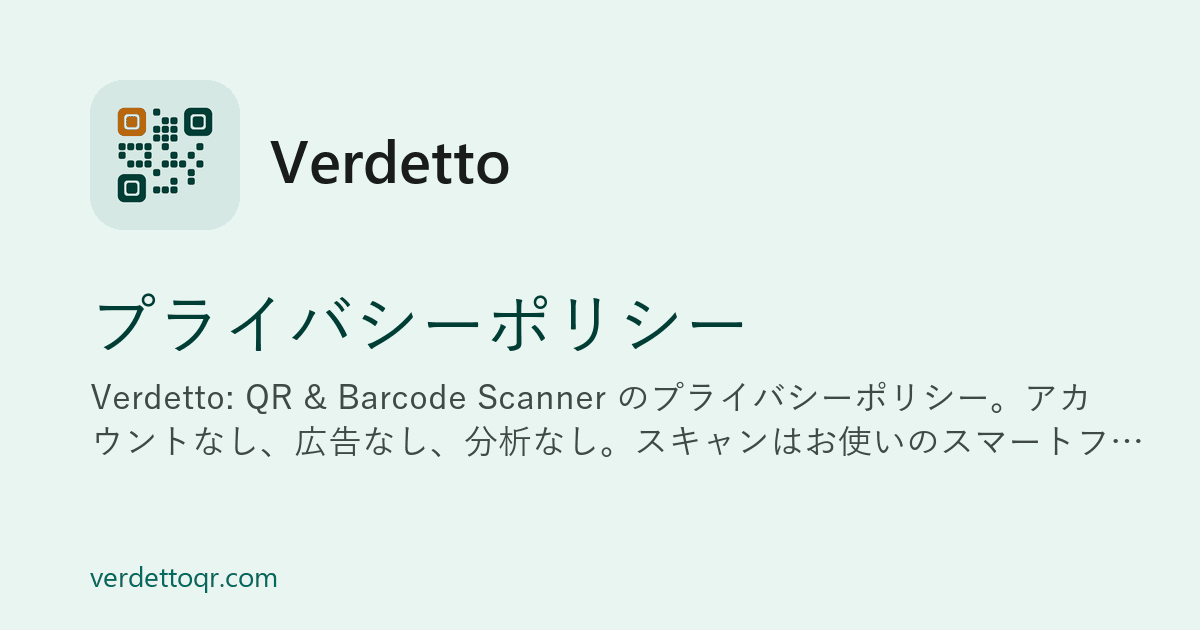
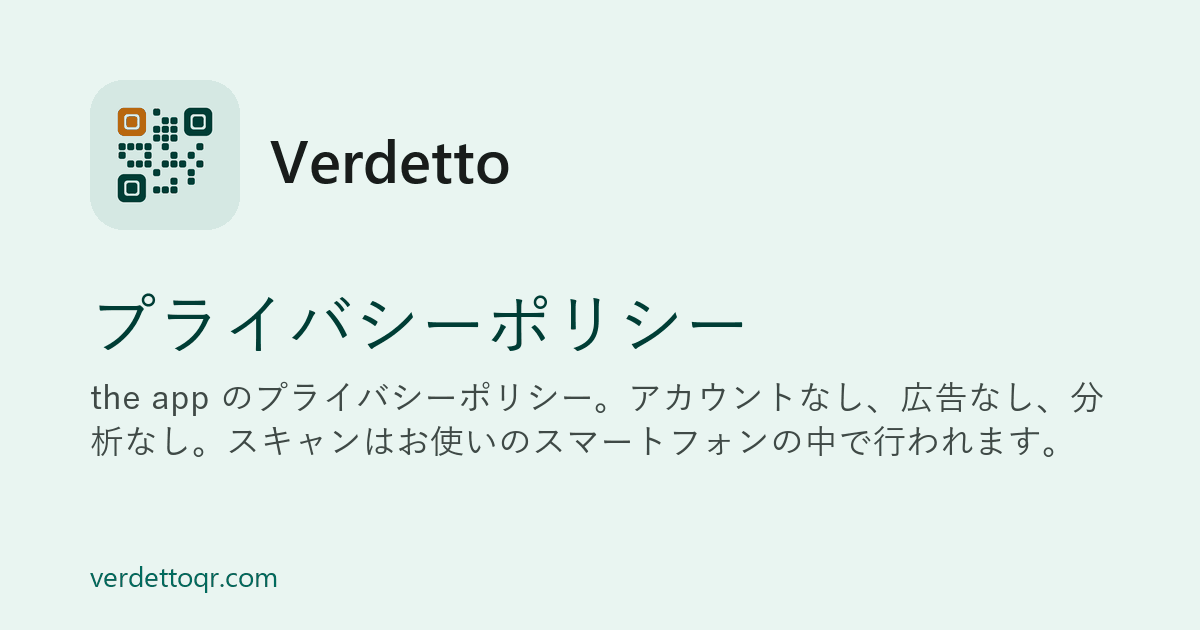
No repetition inside one message: social images carry the name and the domain once, the press kit lists the two policy addresses as two items
The operator's rule of 2026-09-05 (never duplicative or repetitive in the same message): the mark and wordmark are the one mention of the name and the footer the one mention of the domain, so a page's title and line on its social image carry neither (assets.py asserts it); the walkthrough now flags a link or the domain repeated inside one block, which found the press-kit item.

Changed region(s): [[0.0617, 0.6032, 0.925, 0.7238]]

diff --git a/assets.py b/assets.py
@@ -124,6 +124,24 @@ def wrap(draw, text, fnt, width, lang):
     return lines
 
 
+OG_HEAD = {"report.html": "Report a link or a wrong read"}
+FULL_STOPS = ".。।"  # period, ideographic full stop, danda
+
+
+def dename(text):
+    text = re.sub(r"Verdetto: QR & Barcode Scanner( for Android)?", "the app", text)
+    return text.replace("Verdetto's", "the app's").replace("Verdetto", "the app")
+
+
+def og_line(desc):
+    """The image's one line: the first sentence without the name when it says something (30+ characters), else the first
+    sentence with the name replaced. A sentence ends at a full stop of its script followed by white space."""
+    sentences = [x.strip() for x in re.split("(?<=[" + re.escape(FULL_STOPS) + r"])\s+", desc) if x.strip()]
+    pick = next((x for x in sentences if "Verdetto" not in x and len(x) >= 30), None) or dename(sentences[0])
+    stop = pick[-1] if pick[-1] in FULL_STOPS else "."
+    return pick.rstrip(FULL_STOPS) + stop
+
+
 (HERE / "og").mkdir(exist_ok=True)
 small_mark = rounded(master.resize((150, 150), Image.LANCZOS))
 for name, (title, desc, _body, _ld) in build.PAGES.items():
@@ -131,8 +149,13 @@ for name, (title, desc, _body, _ld) in build.PAGES.items():
         continue
     lang, rtl, _alts = build.PAGE_LANG.get(name, ("en", False, None))
     stem = name[:-5]
-    head = title.split(" - ")[0] if " - " in title else title
-    line = desc.split(". ")[0].rstrip(".") + "."
+    # The no-repetition rule (operator, 2026-09-05: "we can't be duplicative or repetitive in the same message"): the mark and
+    # wordmark are the one mention of the name, the footer the one mention of the domain, so the title and the line carry
+    # neither. A name-free sentence of the description is preferred; else the name becomes "the app".
+    head = OG_HEAD.get(name) or re.sub(r"^Verdetto: ", "", title.split(" - ")[0] if " - " in title else title)
+    line = og_line(desc)
+    for shown in (head, line):
+        assert "Verdetto" not in shown and "verdettoqr" not in shown.lower(), (name, shown)
     if lang == "ar" and arabic_reshaper is None:
         head, line = build.PAGES["privacy.html" if "privacy" in name else "terms.html"][0].split(" - ")[0], ""
     img = Image.new("RGB", (1200, 630), MINT)
